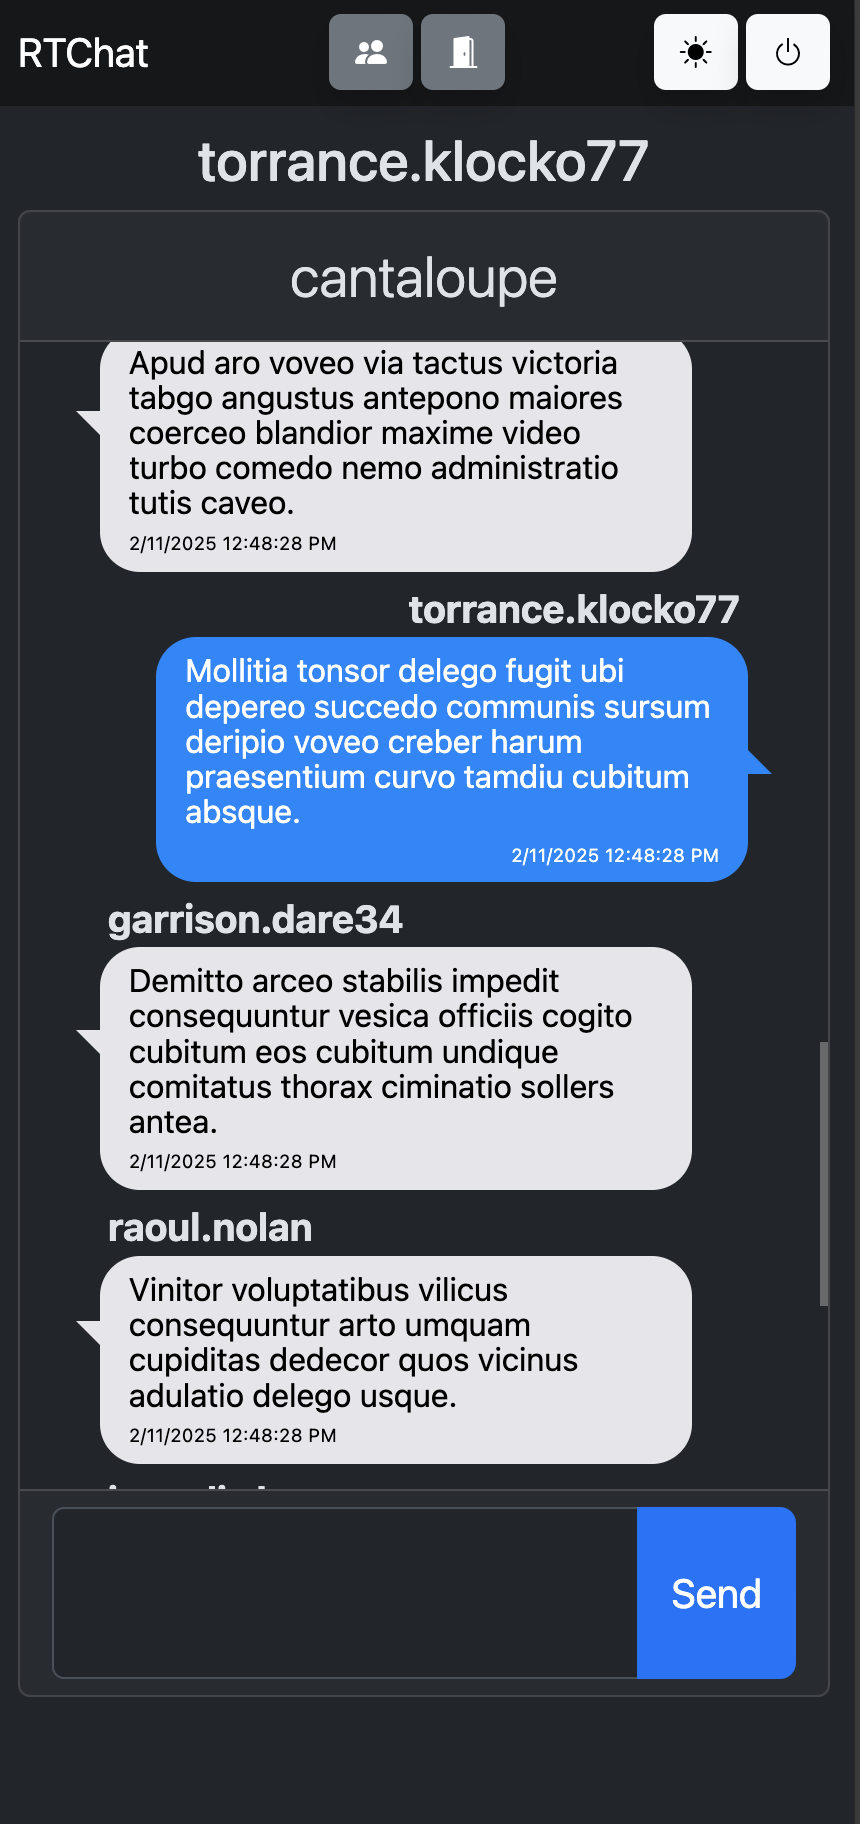
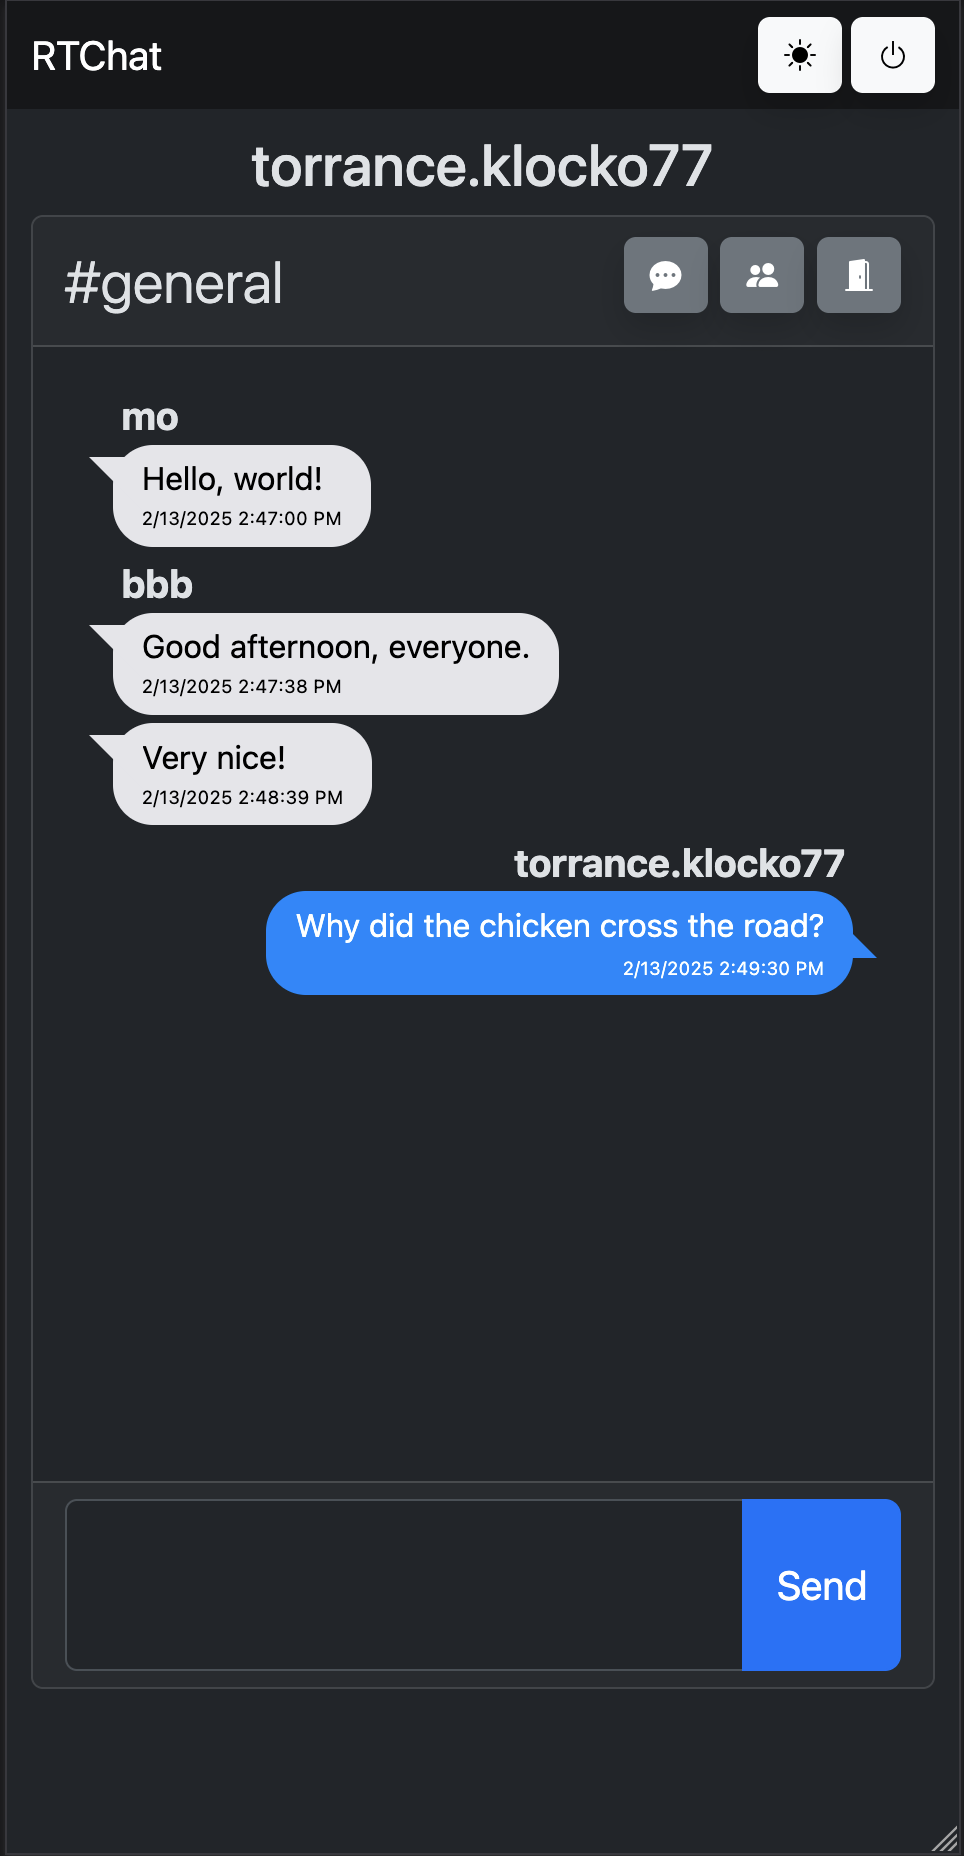
⚓
-Update screenshots
-Merge duplicate useEffects

diff --git a/client/src/pages/Chat/ChatView.tsx b/client/src/pages/Chat/ChatView.tsx
@@ -73,12 +73,6 @@ export default function ChatView(): React.JSX.Element {
     }
   }, [state.messages]);
 
-  useEffect(() => {
-    if (state.chatScope === null) {
-      websocketeer.send("ENTER_ROOM", { id: "_____________UNASSIGNED_____________" });
-    }
-  }, [state.chatScope]);
-
   useEffectOnce(() => {
     const handleListDirectConversations: WebSocketeerEventHandler<WebSocketEvents, "LIST_DIRECT_CONVERSATIONS"> = ({
       directConversations,
@@ -200,6 +194,10 @@ export default function ChatView(): React.JSX.Element {
   }, [dispatch, state.isCreateDirectConversationModalOpen]);
 
   useEffect(() => {
+    if (state.chatScope === null) {
+      websocketeer.send("ENTER_ROOM", { id: "_____________UNASSIGNED_____________" });
+    }
+
     const handleReceiveMessage: WebSocketeerEventHandler<WebSocketEvents, "RECEIVE_MESSAGE"> = ({ message, error }) => {
       if (error) return console.error(error);
       if (!message.scopeId) {
@@ -237,7 +235,9 @@ export default function ChatView(): React.JSX.Element {
     };
 
     websocketeer.on("RECEIVE_MESSAGE", handleReceiveMessage);
-    return (): void => websocketeer.off("RECEIVE_MESSAGE", handleReceiveMessage);
+    return (): void => {
+      websocketeer.off("RECEIVE_MESSAGE", handleReceiveMessage);
+    };
   }, [dispatch, state.chatScope]);
 
   function handleOpenJoinRoomModal(): void {

diff --git a/README.md b/README.md
@@ -88,6 +88,10 @@ Optimized for all devices!
 
 ---
 
+![Responsive Direct Conversations](.github/screenshots/7_responsive_direct_convos.png "Responsive Direct Conversations")
+
+---
+
 <sub><a name="jwt">\*</a>Pseudo-sessions via JWT. I was testing various auth strategies, got sick of testing different strats, and settled with using a JWT as a session-like token. I plan on migrating to full on sessions soon.</sub>
 
 ---
